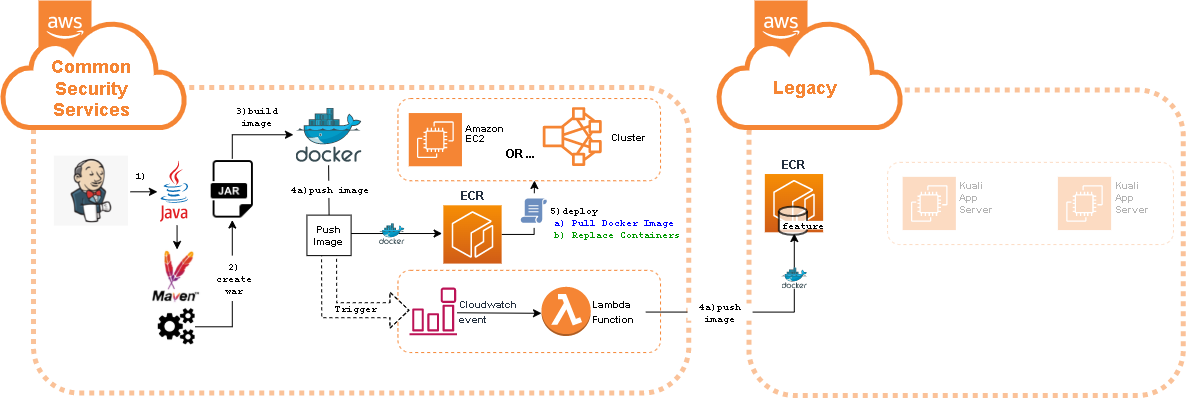
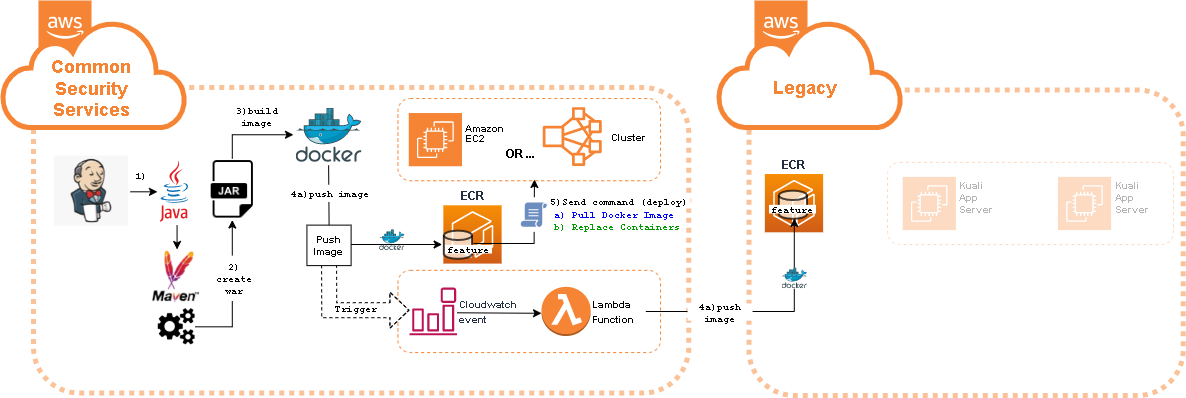
Adding documentation for kuali build jenkins job (part2)

diff --git a/kuali_jenkins/documentation/jobs/kuali-build/job.md b/kuali_jenkins/documentation/jobs/kuali-build/job.md
@@ -59,7 +59,7 @@ ec2-based jenkins host in the CSS (Common security services) aws account.
    [private jenkins ip]:8080/view/Kuali-Research/job/kuali-research/build?delay=0sec.
    ```
 
-2. #### Run the Job
+2. #### Select Job Parameters
 
   The three senior selections of the jenkins job for rebuilding/redploying kuali-research are:
   
@@ -71,15 +71,16 @@ ec2-based jenkins host in the CSS (Common security services) aws account.
     - **Feature**: This is an early stage build that targets a test branch and non-production landscape for testing. The steps taken are:
       1. Pull from a git feature branch
       2. Maven build, resulting in  a war file
-      3. Packaging of the war file into a docker image, which is published to a docker feature repository within our registry
-      4. Deployment of the newly published docker feature image to the selected landscape stack. This involves sending a command to resources within the stack to purge all related docker containers and images and re-launch new containers based on the new images available in the docker feature repository (these are downloaded).
-    - **Pre-release:** This selection indicates readiness to move a feature build into the release category in preparation for the final release. A typical scenario occurs when having finished a feature and you want to move the EXACT build image destined for production out to the staging environment. No building or packaging takes place. The steps taken are:
-      1. Pull the image from the feature repository
-      2. Rename the image so as to indicate its upcoming new home in the release repository
-      3. Push the image to the release repository
-      4. Redeploy the release image to a target landscape, if a landscape stack is selected.
+      3. Packaging of the war file into a docker image, which is published to a docker FEATURE repository within our registry
+      4. Deployment of the newly published docker feature image to the selected landscape stack. This involves sending a command to resources within the stack to purge all related docker containers and images and re-launch new containers based on the new image available in the docker FEATURE repository (these are downloaded).
+    - **Pre-release:** This selection indicates readiness to move a feature build into the release category in preparation for the final release. A typical scenario occurs when having finished a feature and you want to move the EXACT build image destined for production out to the staging environment. This assumes that feature branch(s) have been merged into the release branch (bu-master). The steps taken are:
+      1. Pull from the git bu-master
+      2. Maven build, resulting in  a war file
+      3. Packaging of the war file into a docker image, which is published to a docker RELEASE repository within our registry
+      4. Deployment of the newly published docker feature image to the selected landscape stack (probably staging). This involves sending a command to resources within the stack to purge all related docker containers and images and re-launch new containers based on the new image available in the docker RELEASE repository (these are downloaded).
     - **Release**: This selection indicates you are performing a final release to the environment you select (this should always be production). The steps taken are:
       1. Redeploy the release image to the target landscape *(this landscape would probably be production, running the prior release).*
+         This is basically step 4 of the Pre-release build type, but with the production landscape as the target.
   - **GIT_COMMIT_ID**
     This selection indicates exactly what is being built and deployed with respect to the source code.
     You typically set the value here indirectly through the other "GIT_" prefixed parameters. Experiment with these other parameters, and how it works becomes quickly self-explanatory.
@@ -89,9 +90,21 @@ ec2-based jenkins host in the CSS (Common security services) aws account.
   - **LEGACY_DEPLOY**
     This selection indicates that you additionally want the feature or release indicated by the BUILD_TYPE parameter deployed to the "legacy" landscape that you select.
   
-  
-  
-  
+3. #### Run the Job
+
+   - Uncheck "DRYRUN".
+      This parameter is useful to verify for oneself what would happen if building with the selected parameters.
+      The script function calls that would occur are printed in order in the console output of the job, but they are not executed.
+      Also, there is a "DEBUG" checkbox for seeing more verbose console output.
+   - Click "Build"
+   - View console output
+      Once building, the current running instance of the job will become available as the top item in the "Build History" listing on the left of the page.
+      Click the down arrow for that job instance and select "Console output" from the context menu that appears.
+
+
+
+
+
 
 #### EXAMPLES:
 
@@ -99,7 +112,7 @@ ec2-based jenkins host in the CSS (Common security services) aws account.
 
 **Feature build and deploy**
 
-*"I have committed new code to my feature branch "myfeature" in git, and I want to build and deploy the changes to my own test landscape "playground"*:
+*"I have committed new code to my feature branch "myfeature" in git, and I want to build and deploy those changes to my own test landscape "playground"*:
 
 ![](scenario1.png)
 
@@ -109,11 +122,11 @@ ec2-based jenkins host in the CSS (Common security services) aws account.
 - LEGACY_DEPLOY: "None"
 - GIT_REF_TYPE: "Branch"
 - GIT_REF: "myfeature"
-  
+- Accept all other defaults
 
 **Feature build and dual deploy**
 
-*"I have committed more new code to my feature branch "myfeature" in git, and I want to build and deploy the changes to my own test landscape AND to the staging landscape in the legacy account"*:
+*"I have committed more new code to my feature branch "myfeature" in git, and I want to build and deploy the changes to my own test landscape AND to the staging landscape in the legacy aws account"*:
 
 ![](scenario2.png)
 
@@ -123,17 +136,42 @@ ec2-based jenkins host in the CSS (Common security services) aws account.
 - LEGACY_DEPLOY: "Staging"
 - GIT_REF_TYPE: "Branch"
 - GIT_REF: "myfeature"
+- Accept all other defaults
   
 
-**Pre-Release and deploy**
+**Pre-Release build and dual deploy**
+"I have merged my feature branch into the "bu-master" branch and want to build and stage it in the staging landscape locally AND to the staging landscape in the legacy aws account"
 
-*"I want to promote "myfeature" to release status and make it available in the staging environment"*:
-
-![](scenario3.png)
+The depiction for this is basically the same as for the illustration in the prior example. 
 
 - DRYRUN: Uncheck
 - STACK: Select radio button for landscape "staging"
 - BUILD_TYPE: "Pre-release"
+- LEGACY_DEPLOY: "Staging"
+- Accept all other defaults
+  
+
+**Release**
+
+*"I want to perform a release to the production landscape"*:
+
+![](scenario3.png)
+
+- DRYRUN: Uncheck
+- STACK: Select radio button for landscape "production"
+- BUILD_TYPE: "Release"
 - LEGACY_DEPLOY: "None"
-- GIT_REF_TYPE: "Branch"
-- GIT_REF: "myfeature"
+- Accept all other defaults
+  
+
+**Dual Release**
+
+*"I want to perform a release against both the CSS and "Legacy" aws accounts"*
+
+![](scenario4.png)
+
+- DRYRUN: Uncheck
+- STACK: Select radio button for landscape "production"
+- BUILD_TYPE: "Release"
+- LEGACY_DEPLOY: "Production"
+- Accept all other defaults
